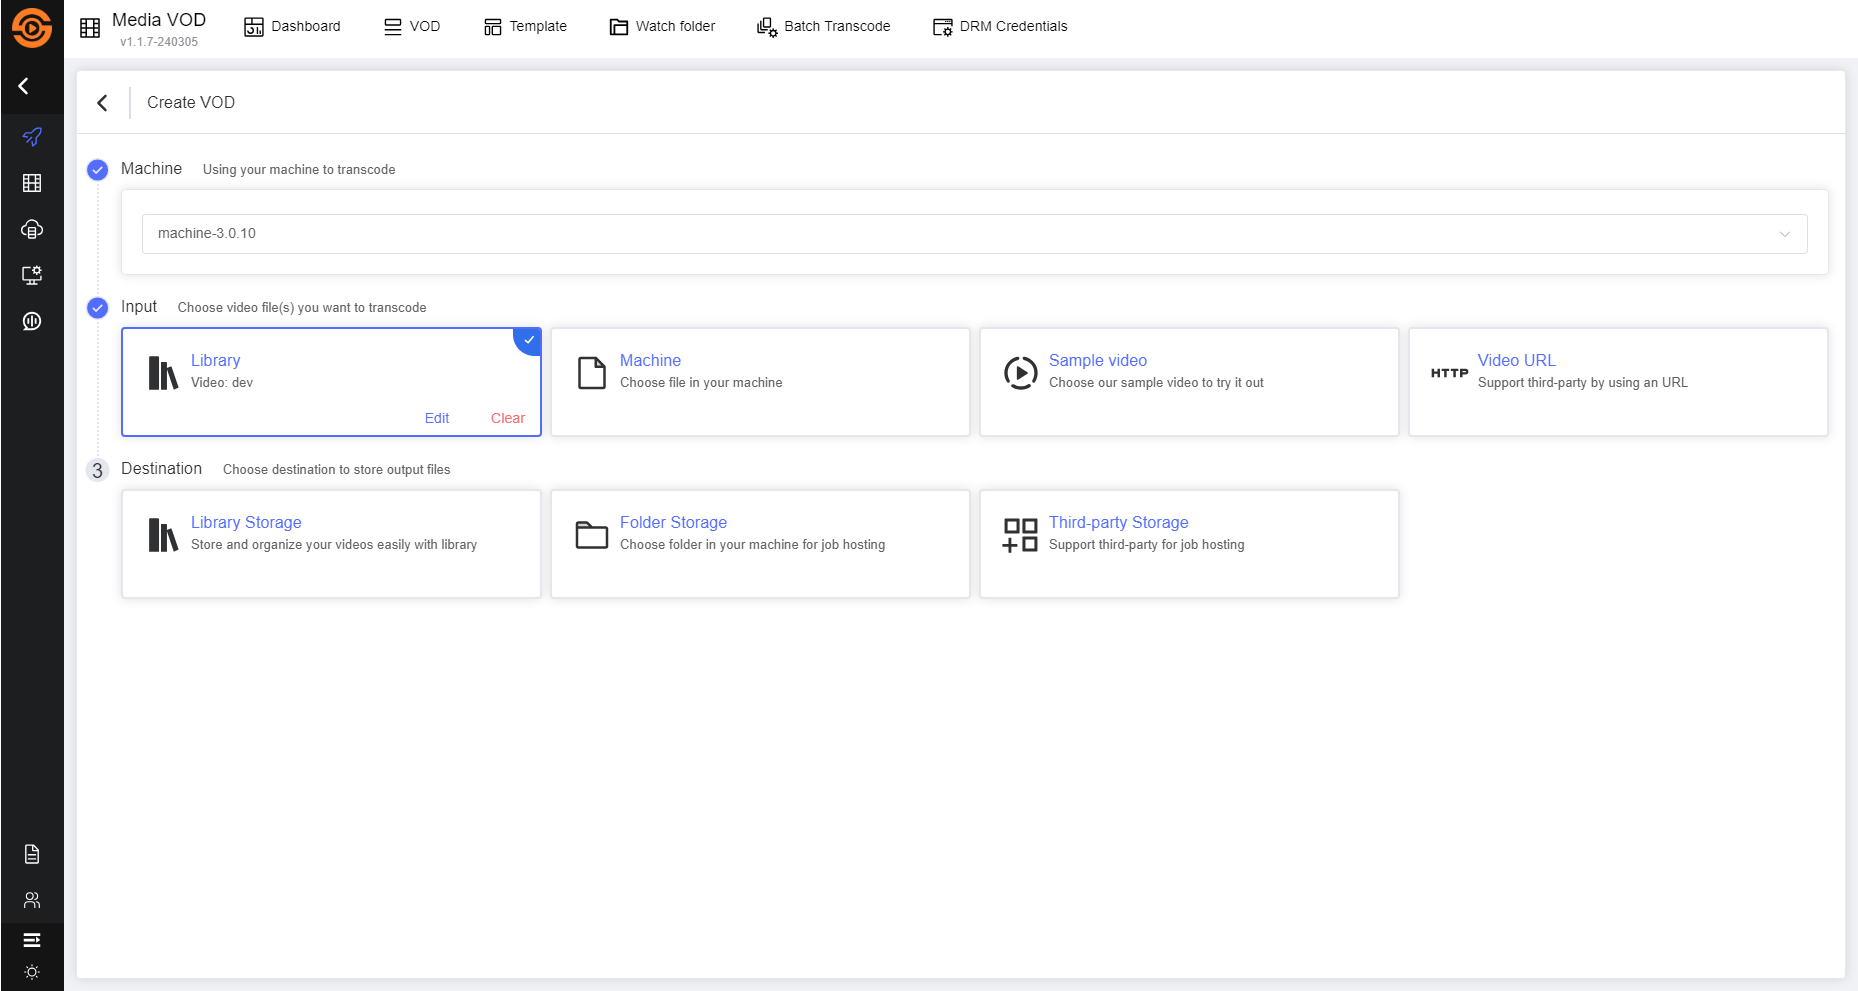
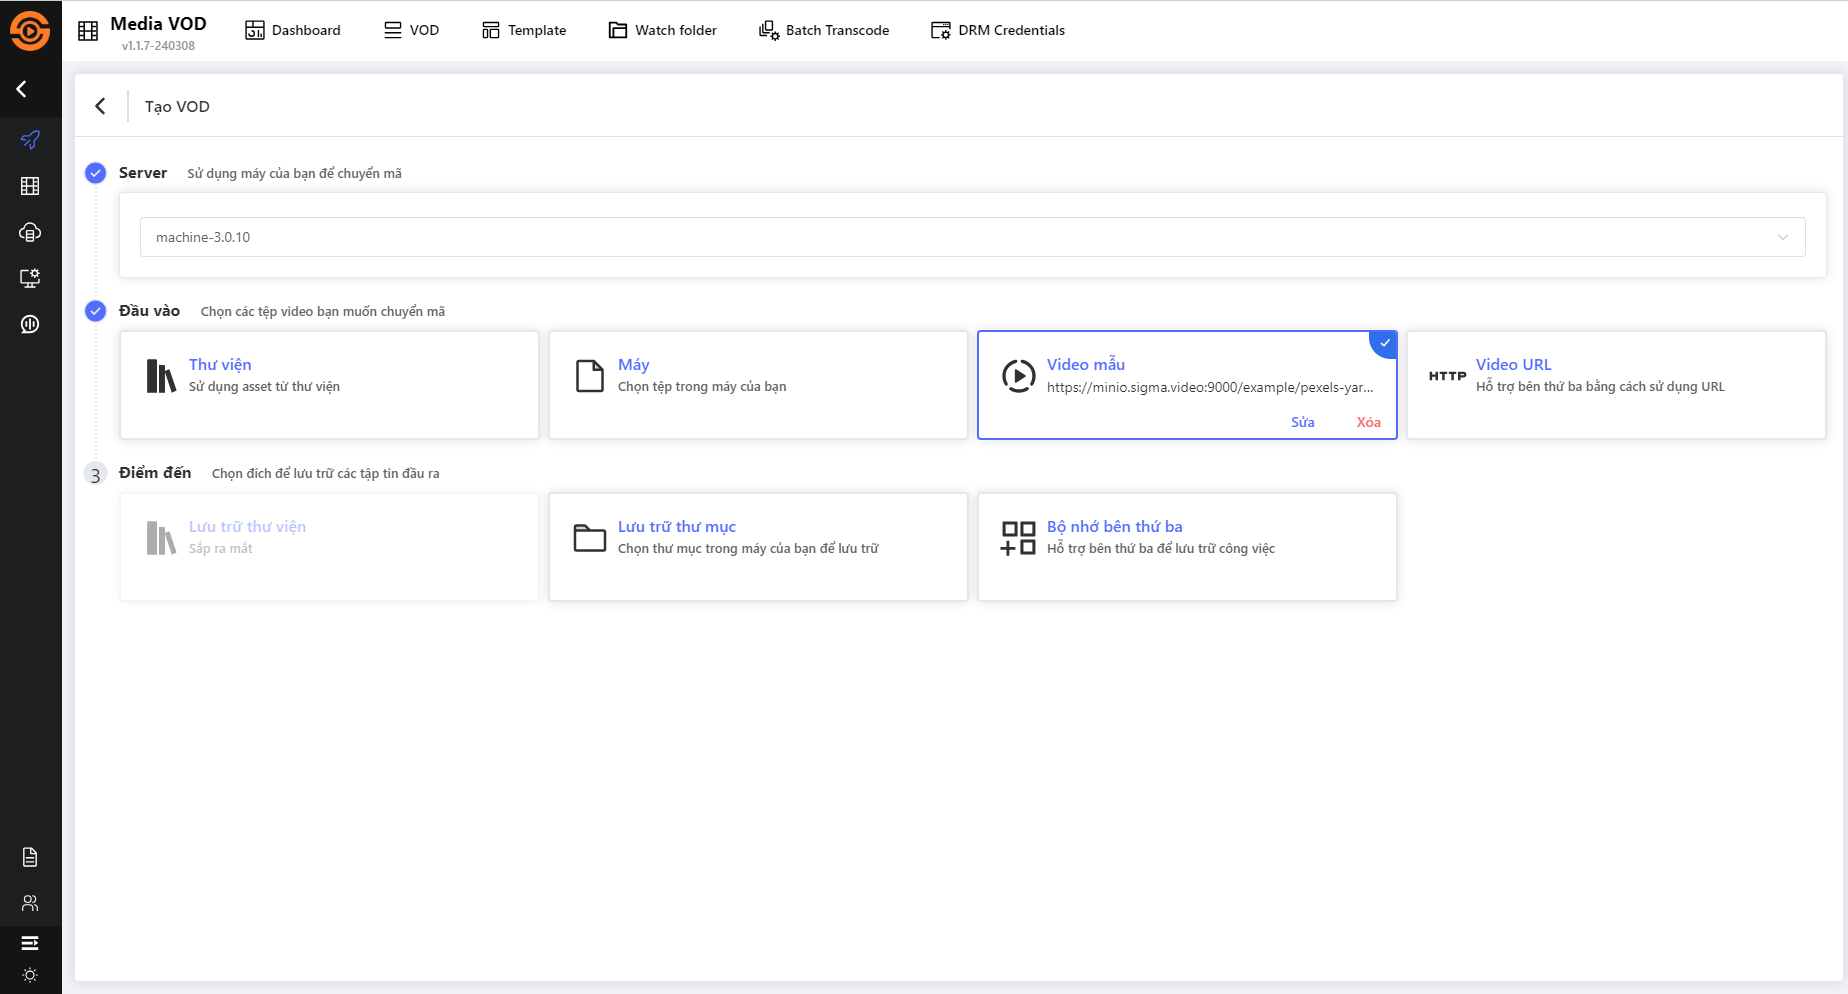
add create job and image

diff --git a/docs/vi/sigma-media-vod/05-user-guide/b-job-management/1-create-job.md b/docs/vi/sigma-media-vod/05-user-guide/b-job-management/1-create-job.md
@@ -72,8 +72,6 @@ Hỗ trợ các luồng đầu ra:
     - Hiển thị thông tin về folder như tên folder, định dạng, kích thước, và thời gian chỉnh sửa gần nhất.
     - Không giới hạn kích thước folder.
 
-- Lưu tại thư viện
-
 - Lưu vào bên thứ 3: hỗ trợ FTP, Generic S3
     - Mặc định hiển thị ở FTP với các thông tin:
         - **Host**: địa chỉ IP.
@@ -96,7 +94,127 @@ Tiếp theo, người dùng sẽ được dẫn sang bước cuối cùng trong 
 
 Hiển thị mặc định là danh sách các profile với trạng thái chưa áp dụng bất kỳ mẫu (template) nào. Nút Tạo công việc (Create job) không thể sử dụng.
 
-Để tiết kiệm thời gian, người dùng có thể lựa chọn một trong những mẫu cấu hình có sẵn hoặc tùy chỉnh và tạo mới thông tin cho chính họ. Điều này giúp tối ưu hóa quy trình và tạo ra các công việc hoặc tác vụ dễ dàng và hiệu quả hơn.
+![default](/images/media-vod/job-management/config-default.png)
 
+- Cấu hình profile chung: Chưa có dữ liệu.
+- Per-Title Encoding: đang tắt,  tính năng làm giảm kích thước tệp bằng cách tối ưu hóa từng khung hình mà không làm giảm chất lượng video, giúp cải thiện 70% thời gian tải cũng như giảm chi phí lưu trữ và băng thông.
+- Nút ``cấu hình mặc định``: xoá data do người dùng cấu hình profile, hiển thị prodile mặc định
+- Danh sách profile mặc định gồm: 1080, 720, 480, 360, 240, 144
+( cho phép sửa, xoá.)
+- Cấu hình mục tiêu
 
+### Chọn cấu hình mẫu
+Để tiết kiệm thời gian, người dùng có thể lựa chọn một trong những mẫu cấu hình có sẵn. Điều này giúp tối ưu hóa quy trình và tạo ra các công việc hoặc tác vụ dễ dàng và hiệu quả hơn.
 
+1. Nhấp vào nút `áp dụng với mẫu`
+2. Hiển thị danh sách mẫu:
+
+![template list](/images/media-vod/job-management/template-list-create.png)
+
+3. Sau khi áp dụng mẫu, hiển thị tên mẫu và cấu hình hiện tại sẽ được thay thế bằng dữ liệu mẫu. Chỉ lấy thông tin từ mẫu, người dùng vẫn có thể custom cấu hình.
+
+![choose template](/images/media-vod/job-management/select-template.png)
+
+Đồng thời, hệ thống hiển thị bước Tạo job
+- Nút `Tạo job`: hoàn thành quá trình tạo công việc
+- Nút ``Lưu mẫu``: Lưu lại cấu hình thành mẫu mới.
+
+### Tuỳ chỉnh cấu hình 
+
+Người dùng mong muốn có khả năng tùy chỉnh và tạo mới thông tin cho chính họ. Thực hiện các cấu hình theo thứ tự sau:
+
+1.  Kích hoạt Per-title encoding: Bằng cách này, thông tin về hồ sơ bitrate loại video mặc định hiển thị ``optimized``, giúp tối ưu hóa chất lượng video và kích thước file của từng video cụ thể.
+
+2. ử dụng các hồ sơ hợp lý: Người dùng có thể tạo và quản lý tối đa 10 hồ sơ:
+
+- Sử dụng các hồ sơ mẫu có sẵn.
+- Chỉnh sửa các hồ sơ mẫu: Bằng cách nhấp vào biểu tượng ``sửa`` đổi trong cột hành động và tiến hành chỉnh sửa theo [hướng dẫn sửa profile](../../../sigma-media-live/05-user-guide/h-profile/3-edit-profile.md).
+- Tạo hồ sơ mới theo ý muốn: Bằng cách nhấp vào nút ``thêm hồ sơ``và thực hiện các bước theo [hướng dẫn tạo profile](../../../sigma-media-live/05-user-guide/h-profile/1-create-profile.md).
+- Xoá hồ sơ không cần thiết: Bằng cách nhấp vào biểu tượng ``xoá`` trong cột hành động và tiến hành xoá theo [hướng dẫn xoá profile](../../../sigma-media-live/05-user-guide/h-profile/5-delete.md).
+
+``` Mối quan hệ giữa profile và watermark
+Mỗi profile có thể chứa tối đa 10 audio và 1 video, tối đa 11 watermark.
+
+Quá trình chạy job sử dụng profile, 1 watermark được hiển thị 1 video hoặc 1 audio tương ứng. 
+```
+
+3. Cấu hình mục tiêu: Người dùng được phép chọn tối đa 5 mục tiêu.
+
+Khi nhấp vào nút ``Thêm mục tiêu``, một cửa sổ bắt buộc xuất hiện yêu cầu người dùng chọn định dạng mong muốn gồm: **DASH, HLS, Multiple-mp4, Mp4, Mp3**. 
+
+![target output](/images/media-vod/job-management/target-output.png)
+
+Sau khi đã chọn định dạng, mở cửa sổ mới cấu hình thêm mục tiêu gồm:
+
+![target-hls](/images/media-vod/job-management/target-hls.png)
+
+- Thông tin:
+    - **Tên**: hiển thị [định dạng chọn]-[hệ thống random kí tự] giúp tối ưu trải nghiệm người dùng, người dùng có thể sửa lại tên phù hợp với mong muốn.
+    - **Định dạng**: hiển thị theo lựa chọn người dùng, không cho phép sửa
+- Manifest:
+    - **Container**: Định dạng tệp tin segment, lựa chọn **mpeg-ts** hoặc **fmp4**.
+    - **Counter**: Số segment giữ trong file playlist, giá trị mặc định **=4**. Nhập giá trị **từ 1 đến 50.**
+    - TS: Độ dài của segment tính bằng giây, giá trị mặc định **=2**. Nhập giá trị **từ 2 đến 10.**
+    - **Thời gian**: Chèn timestamp vào playlist, mặc định tắt.
+    - **Danh sách phát**: Chèn timestamp vào playlist, mặc định tắt.
+
+![multiple-mp4](/images/media-vod/job-management/target-multiple-mp4.png)
+
+``` 
+Không hiển thị cấu hình manifest với định dạng multiple-mp4 và mp4.
+```
+
+- DRM: bật chế độ DRM, cho phép cấu hình Key provider.
+    - **Key provider**: Phương thức cung cấp key mã hoá, tĩnh hoặc lấy từ server chứa key mã hoá, các lựa chọn: **static, sigma-drm-v1, sigma-drm, sigma-multi-drm, drmtoday, CPIX.**
+    - Mỗi lựa chọn key provider hiển thị thông tin tương ứng.
+
+![target-mp4](/images/media-vod/job-management/target-mp4.png)
+
+```
+Không hiển thị cấu hình DRM với định dạng mp4 và mp3.
+```
+
+- Trick play: bật chế độ trick play, người dùng được phép cấu hình các thông tin hiển thị thumbnail:
+    - **Width**: giá trị mặc định **=50**. Nhập giá trị **từ 50 đến 600.**
+    - **Delay**: đơn vị tính= giây, giá trị mặc định **=2**. Nhập giá trị **từ 2 đến 120.**
+    - **Col( column)**: giá trị mặc định **=2**. Nhập giá trị **từ 1 đến 50.**
+    - **Row**: giá trị mặc định **=2**. Nhập giá trị **từ 1 đến 50.**
+
+![target-mp3](../../../../public/images/media-vod/job-management/target-mp3.png)
+
+```
+Không hiển thị cấu hình trick play với định dạng  mp3.
+```
+
+- **Subtitle**: là các cặp mã ngôn ngữ **ISO dạng 639.3 và đường dẫn phụ đề**, tối đa 10 subtitle. Sau khi cấu hình, job hiển thị đầu ra có file vtt chứa text.
+
+```
+Không hiển thị cấu hình trick play với định dạng mp3.
+```
+
+- Chọn profile: chọn profile trong danh sách profile đã cấu hình. Sau khi tạo job, đầu ra hiển thị profile tương ứng với từng target.
+
+```
+Chỉ chọn 1 profile với định dạng mp4, mp3. Hiển thị mặc định profile đầu tiên trong danh sách.
+```
+
+### Thiết lập cấu hình chung profile( không bắt buộc)
+
+Đây là thao tác không bắt buộc phải thực hiện, giới hạn 5 Watermark được thêm tại cấu hình chung và cấu hình mỗi profile. 
+
+Chọn cấu hình chung profile ở đầu mục, hiển thị cửa sổ:
+
+![general-profile-config](/images/media-vod/job-management/general-profile-config.png)
+
+- **cấu hình Watermark** (mục bắt buộc)
+-  **cấu hình Audio Watermark** (không bắt buộc)
+
+Sau khi thiết lập cấu hình chung của profile, mỗi profile được người dùng lựa chọn **mặc định** sẽ áp dụng cấu hình chung đã được thiết lập.
+
+- Đối với mỗi profile, người dùng **Bật watermark** thì khi tạo job hệ thống sẽ ghi nhận xử lí **[cấu hình chung profile + cấu hình riêng của profile]**
+- Đối với trường hợp người dùng disable watermark trong cấu hình mỗi profile, thì khi tạo job hệ thống sẽ chỉ ghi nhận **cấu hình chung của profile**
+
+## Bước 5: Tạo job
+Khi đã hoàn tất cấu hình các bước trước đó, người dùng nhấn vào nút ``Tạo job``. Hệ thống sẽ tiến hành tạo job và sau đó hiển thị người dùng trở lại danh sách các job. Job mới vừa được tạo sẽ được hiển thị ở đầu trang để dễ dàng theo dõi và quản lý.
+
+<!-- Ngoài ra, người dùng có thể lưu lại mẫu để sử dụng cho các job khác theo hướng dẫn. -->

diff --git a/docs/vi/sigma-livestream/03-user-guide/d-session/detai-session.md b/docs/vi/sigma-livestream/03-user-guide/d-session/detai-session.md
@@ -57,7 +57,7 @@ Hệ thống sẽ hiển thị chi tiết của session bao gồm:
 
 3. Thông tin transcode là duy nhất, gồm:
 
-![session-transcode](../../../../public/images/livestream/session-transcode.png)
+![session-transcode](/images/livestream/session-transcode.png)
 
 - ID_task: Định dạng **livestream_[tasktype]_[livestreamId]**
 - Speed: Tốc độ transcode, Đơn vị: %
